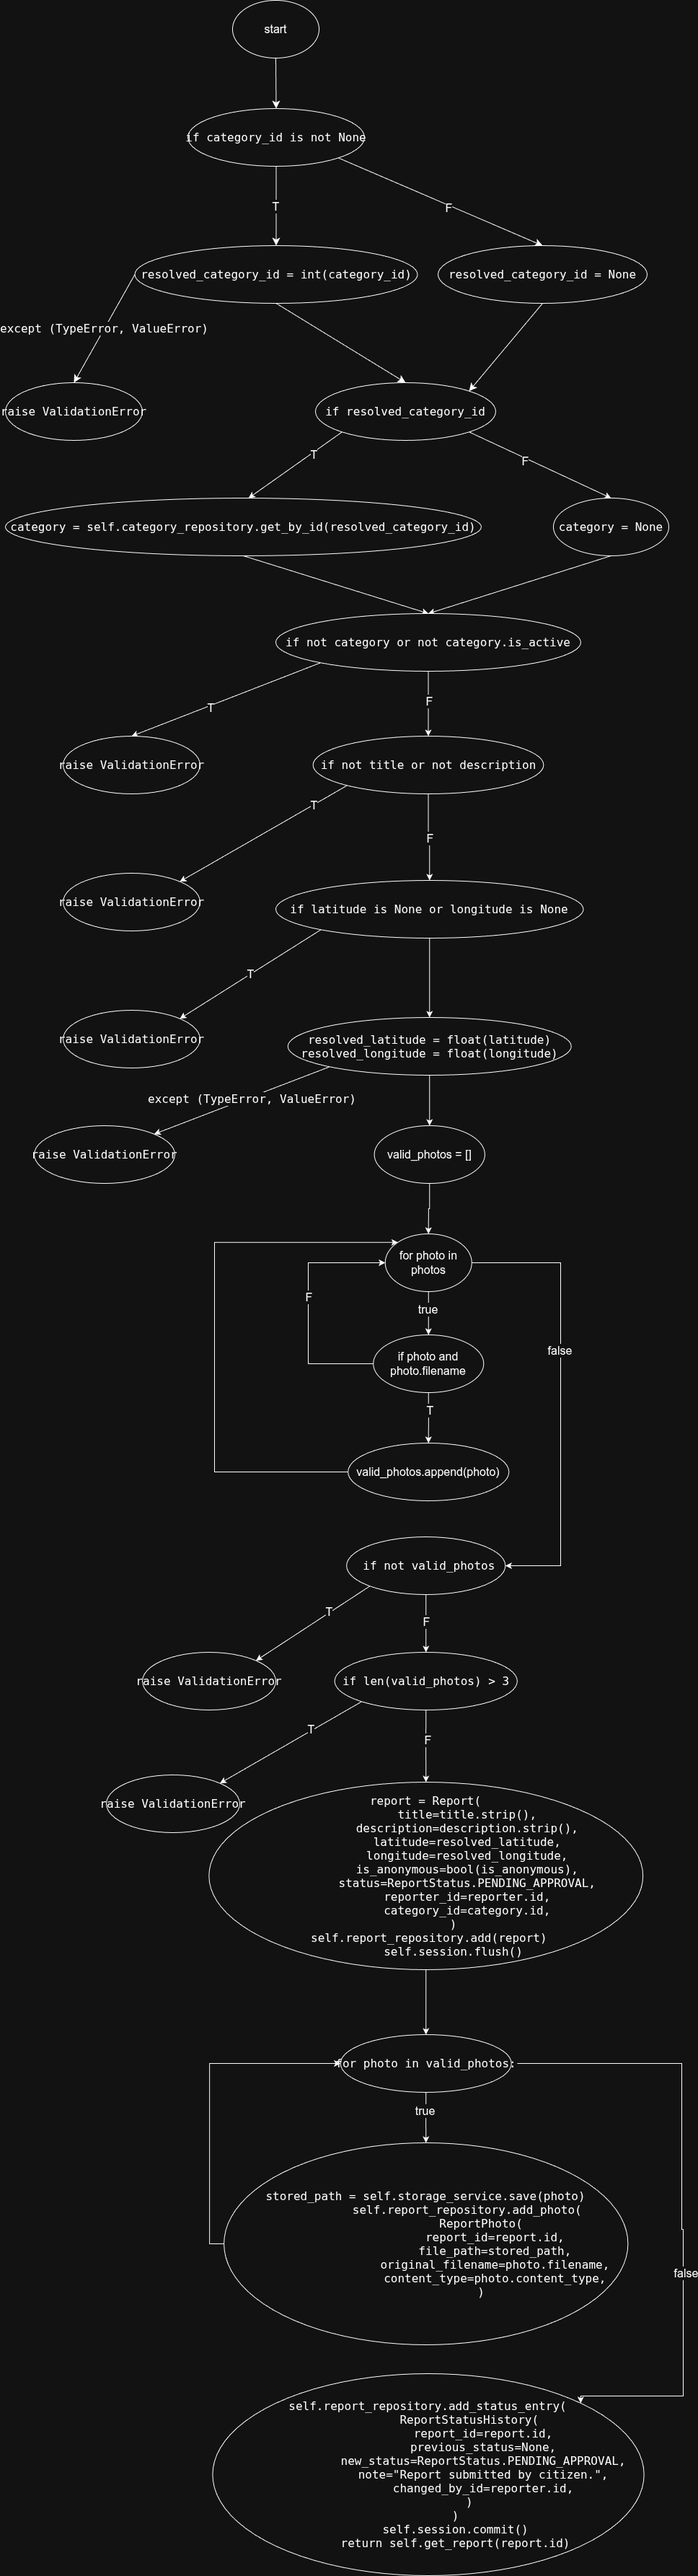
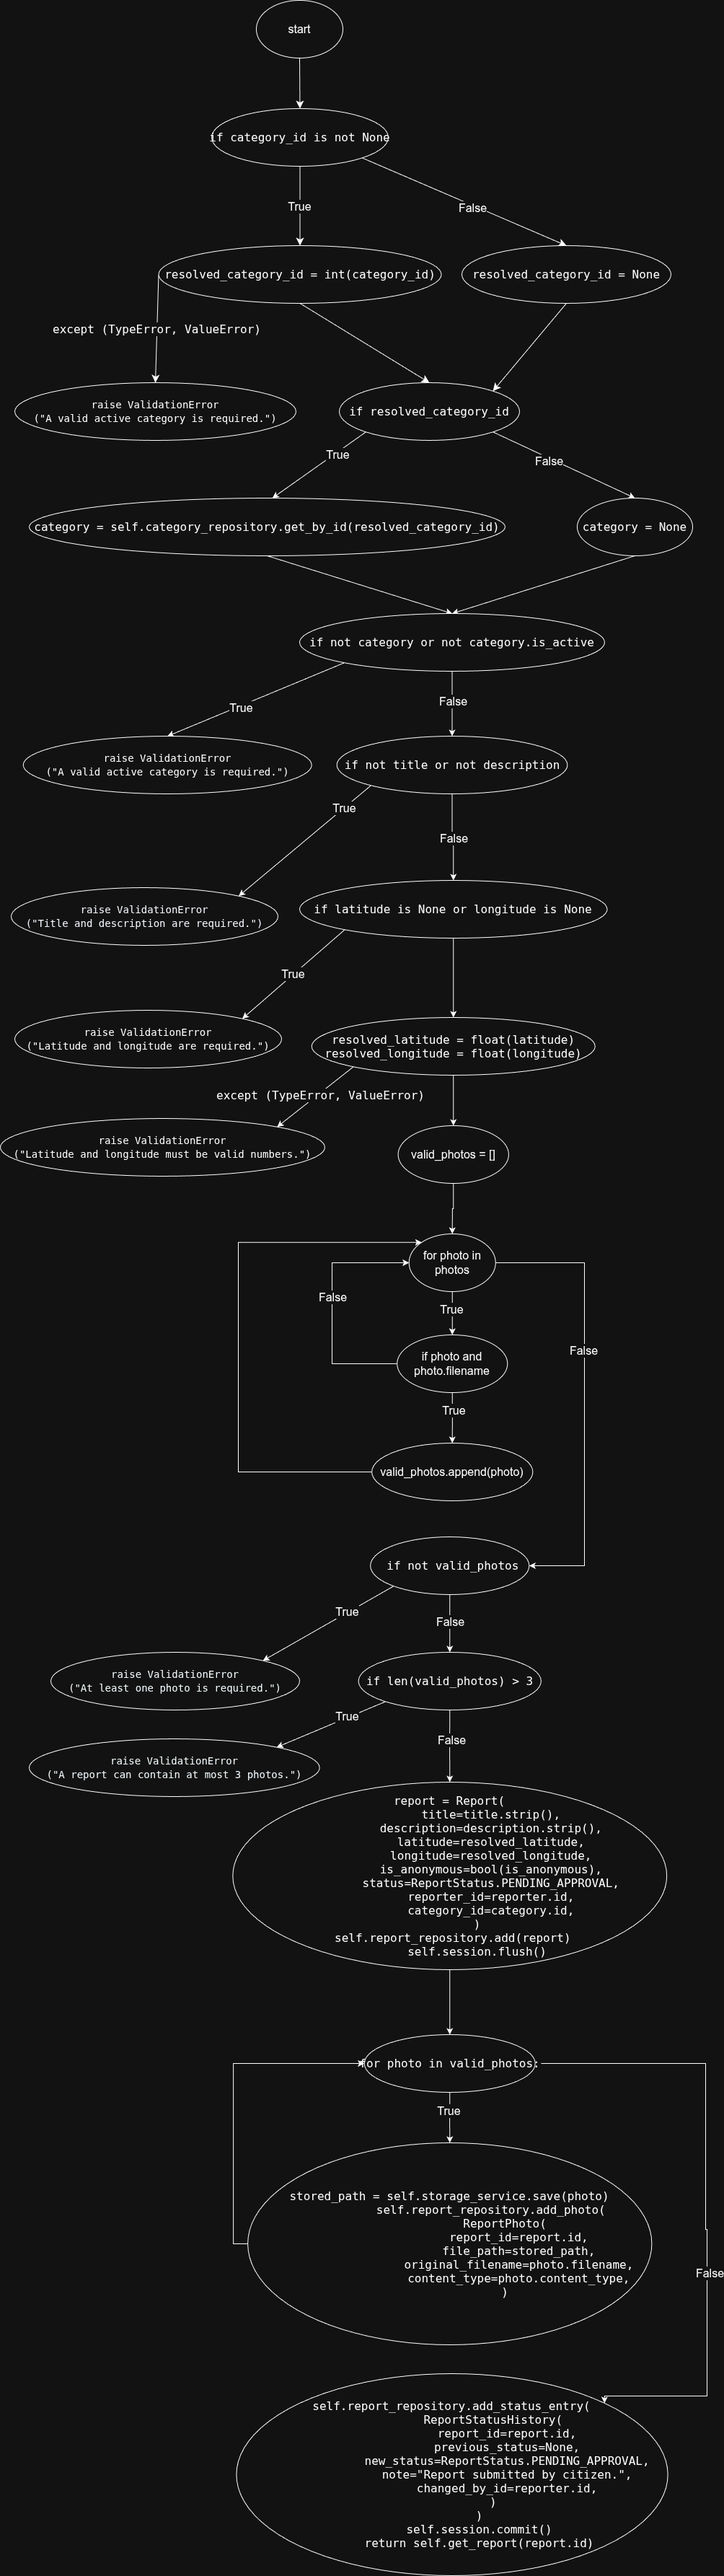
feat: 06_create_report: Structural Lower Bound, Node Coverage,  Edge Coverage

diff --git a/doc/deliverable/06_WhiteBoxReport.md b/doc/deliverable/06_WhiteBoxReport.md
@@ -19,10 +19,32 @@
 - photo.filename
 
 ### Structural Lower Bound
+La funzione create_report produce 8 esiti mutualmente esclusivi, 7 corrispondenti ad eccezioni di tipo ValidationError e 1 return finale di successo. Ogni esecuzione del test restituisce uno di questi esiti, quindi lo structural lower bound è 8.
 
 ### Node Coverage
+| ID   | `reporter` |`category_id`| `title`| `description` | `latitude` | `longitude` | `photos`| `is_anonymous` | Outcome atteso |
+|------|---------------|---------------|---------------|---------------|---------------|---------------|---------------|---------------|------------------------------|
+|CRN-01| reporter1(id=1) | "uno" | "Buca profonda" | "Si segnala una buca di ampie dimensioni" | 45.4642 | 9.1900 | [photo1, photo2] | True | ValidationError("A valid active category is required.") |
+|CRN-02| reporter1(id=1) | None | "Buca profonda" | "Si segnala una buca di ampie dimensioni" | 45.4642 | 9.1900 | [photo1, photo2] | True | ValidationError ("A valid active category is required.") |
+|CRN-03| reporter1(id=1) | 1 |  None  | "Si segnala una buca di ampie dimensioni" | 45.4642 | 9.1900 | [photo1, photo2] | True |  ValidationError ("Title and description are required.") |
+|CRN-04| reporter1(id=1) | 1 |  "Buca profonda"  | "Si segnala una buca di ampie dimensioni" | None | 9.1900 | [photo1, photo2] | True |  ValidationError ("Latitude and longitude are required.") |
+|CRN-05| reporter1(id=1) | 1 |  "Buca profonda"  | "Si segnala una buca di ampie dimensioni" | "Quaranta" | 9.1900 | [photo1, photo2] | True |  ValidationError ("Latitude and longitude must be valid numbers.") |
+|CRN-06| reporter1(id=1) | 1 |  "Buca profonda"  | "Si segnala una buca di ampie dimensioni" | 45.4642 | 9.1900 | [] | True |  ValidationError ("At least one photo is required.") |
+|CRN-07| reporter1(id=1) | 1 |  "Buca profonda"  | "Si segnala una buca di ampie dimensioni" | 45.4642 | 9.1900 | [photo1, None, photo3, photo4, photo5, photo6] | True | ValidationError ("A report can contain at most 3 photos.") |
+|CRN-08| reporter1(id=1) | 1 |  "Buca profonda"  | "Si segnala una buca di ampie dimensioni" | 45.4642 | 9.1900 | [photo1, photo2] | True | Report |
 
 ### Edge Coverage
+Stessi 8 test della Node coverage:
+| ID   | `reporter` |`category_id`| `title`| `description` | `latitude` | `longitude` | `photos`| `is_anonymous` | Outcome atteso |
+|------|---------------|---------------|---------------|---------------|---------------|---------------|---------------|---------------|------------------------------|
+|CRN-01| reporter1(id=1) | "uno" | "Buca profonda" | "Si segnala una buca di ampie dimensioni" | 45.4642 | 9.1900 | [photo1, photo2] | True | ValidationError("A valid active category is required.") |
+|CRN-02| reporter1(id=1) | None | "Buca profonda" | "Si segnala una buca di ampie dimensioni" | 45.4642 | 9.1900 | [photo1, photo2] | True | ValidationError ("A valid active category is required.") |
+|CRN-03| reporter1(id=1) | 1 |  None  | "Si segnala una buca di ampie dimensioni" | 45.4642 | 9.1900 | [photo1, photo2] | True |  ValidationError ("Title and description are required.") |
+|CRN-04| reporter1(id=1) | 1 |  "Buca profonda"  | "Si segnala una buca di ampie dimensioni" | None | 9.1900 | [photo1, photo2] | True |  ValidationError ("Latitude and longitude are required.") |
+|CRN-05| reporter1(id=1) | 1 |  "Buca profonda"  | "Si segnala una buca di ampie dimensioni" | "Quaranta" | 9.1900 | [photo1, photo2] | True |  ValidationError ("Latitude and longitude must be valid numbers.") |
+|CRN-06| reporter1(id=1) | 1 |  "Buca profonda"  | "Si segnala una buca di ampie dimensioni" | 45.4642 | 9.1900 | [] | True |  ValidationError ("At least one photo is required.") |
+|CRN-07| reporter1(id=1) | 1 |  "Buca profonda"  | "Si segnala una buca di ampie dimensioni" | 45.4642 | 9.1900 | [photo1, None, photo3, photo4, photo5, photo6] | True | ValidationError ("A report can contain at most 3 photos.") |
+|CRN-08| reporter1(id=1) | 1 |  "Buca profonda"  | "Si segnala una buca di ampie dimensioni" | 45.4642 | 9.1900 | [photo1, photo2] | True | Report |
 
 ### Condition Coverage
 
